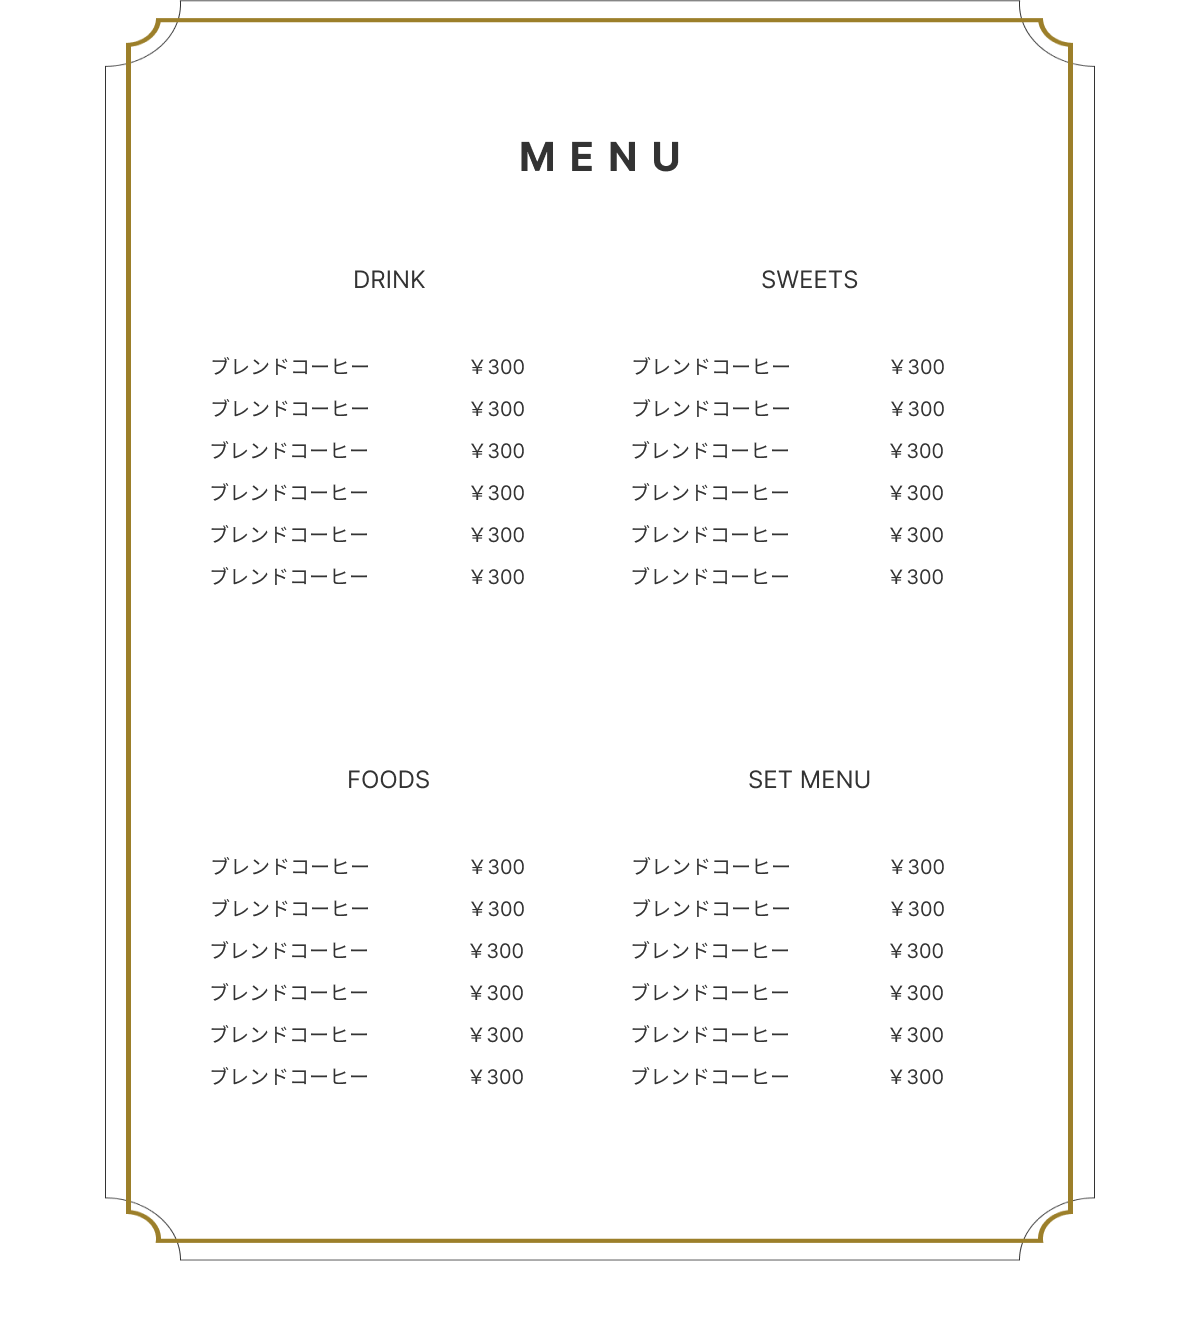
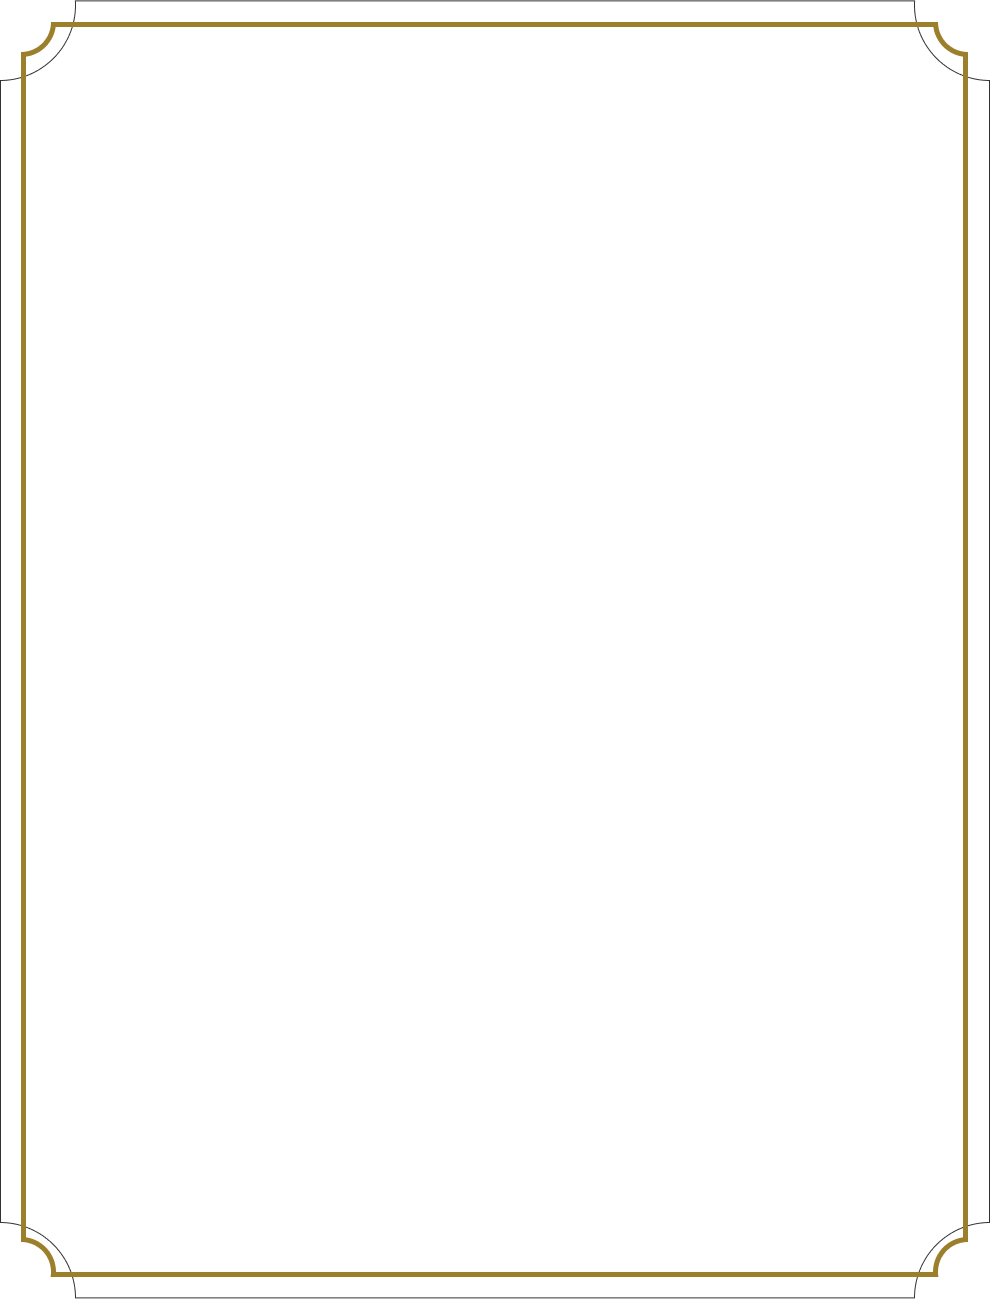
・Menuの全体的な修正 　→コンテンツ全体画像から、画像は枠のみ・テキスト部分はコーディング ・見出し下部の余白の統一 ・FVの「ご予約の・・・」の部分、シャドー追加

diff --git a/index.html b/index.html
@@ -110,133 +110,122 @@
           <h1 class="ttl__1">MENU</h1>
           <img src="./img/img-1.png" alt="ttl_border">
         </div>
-        <div class="menu-content-img">
-          <img src="./img/menu-content.png" alt="menu-content-img">
-        </div>
-        <!--
-
-          枠のみ画像の差し込みとする予定だったが、以下の理由から全体画像の差し込みにする。
-          ・メニュー数が少ない場合に枠内の縦の余白が多くなる。
-          ・コーディング量が多すぎる
-
-        <div class="menu-content-top">
-          <img src="./img/menu-border-img.png" alt="#">
+        <div class="menu-content">
+          <div class="menu-content-img">
+            <img src="./img/menu-content.png" alt="menu-content-img">
+          </div>
           <h2 class="ttl__2">MENU</h2>
-        </div>
-        <div class="menu-content-bottom">
           <div class="menu-categorys">
             <div class="category drink">
-                <h2 class="ttl__3">DRINK</h2>
-                <div>
-                  <p class="item">ブレンドコーヒー</p>
-                  <p class="price">￥300</p>
-                </div>
-                <div>
-                  <p class="item">ブレンドコーヒー</p>
-                  <p class="price">￥300</p>
-                </div>
-                <div>
-                  <p class="item">ブレンドコーヒー</p>
-                  <p class="price">￥300</p>
-                </div>
-                <div>
-                  <p class="item">ブレンドコーヒー</p>
-                  <p class="price">￥300</p>
-                </div>
-                <div>
-                  <p class="item">ブレンドコーヒー</p>
-                  <p class="price">￥300</p>
-                </div>
-                <div>
-                  <p class="item">ブレンドコーヒー</p>
-                  <p class="price">￥300</p>
-                </div>
+              <h2 class="ttl__3">DRINK</h2>
+              <div>
+                <p class="item">ブレンドコーヒー</p>
+                <p class="price">￥300</p>
+              </div>
+              <div>
+                <p class="item">ブレンドコーヒー</p>
+                <p class="price">￥300</p>
+              </div>
+              <div>
+                <p class="item">ブレンドコーヒー</p>
+                <p class="price">￥300</p>
+              </div>
+              <div>
+                <p class="item">ブレンドコーヒー</p>
+                <p class="price">￥300</p>
+              </div>
+              <div>
+                <p class="item">ブレンドコーヒー</p>
+                <p class="price">￥300</p>
+              </div>
+              <div>
+                <p class="item">ブレンドコーヒー</p>
+                <p class="price">￥300</p>
+              </div>
             </div>
             <div class="category sweets">
-                <h2 class="ttl__3">SWEETS</h2>
-                <div>
-                  <p class="item">ブレンドコーヒー</p>
-                  <p class="price">￥300</p>
-                </div>
-                <div>
-                  <p class="item">ブレンドコーヒー</p>
-                  <p class="price">￥300</p>
-                </div>
-                <div>
-                  <p class="item">ブレンドコーヒー</p>
-                  <p class="price">￥300</p>
-                </div>
-                <div>
-                  <p class="item">ブレンドコーヒー</p>
-                  <p class="price">￥300</p>
-                </div>
-                <div>
-                  <p class="item">ブレンドコーヒー</p>
-                  <p class="price">￥300</p>
-                </div>
-                <div>
-                  <p class="item">ブレンドコーヒー</p>
-                  <p class="price">￥300</p>
-                </div>
+              <h2 class="ttl__3">SWEETS</h2>
+              <div>
+                <p class="item">ブレンドコーヒー</p>
+                <p class="price">￥300</p>
+              </div>
+              <div>
+                <p class="item">ブレンドコーヒー</p>
+                <p class="price">￥300</p>
+              </div>
+              <div>
+                <p class="item">ブレンドコーヒー</p>
+                <p class="price">￥300</p>
+              </div>
+              <div>
+                <p class="item">ブレンドコーヒー</p>
+                <p class="price">￥300</p>
+              </div>
+              <div>
+                <p class="item">ブレンドコーヒー</p>
+                <p class="price">￥300</p>
+              </div>
+              <div>
+                <p class="item">ブレンドコーヒー</p>
+                <p class="price">￥300</p>
+              </div>
             </div>
             <div class="category foods">
-                <h2 class="ttl__3">FOODS</h2>
-                <div>
-                  <p class="item">ブレンドコーヒー</p>
-                  <p class="price">￥300</p>
-                </div>
-                <div>
-                  <p class="item">ブレンドコーヒー</p>
-                  <p class="price">￥300</p>
-                </div>
-                <div>
-                  <p class="item">ブレンドコーヒー</p>
-                  <p class="price">￥300</p>
-                </div>
-                <div>
-                  <p class="item">ブレンドコーヒー</p>
-                  <p class="price">￥300</p>
-                </div>
-                <div>
-                  <p class="item">ブレンドコーヒー</p>
-                  <p class="price">￥300</p>
-                </div>
-                <div>
-                  <p class="item">ブレンドコーヒー</p>
-                  <p class="price">￥300</p>
-                </div>
+              <h2 class="ttl__3">FOODS</h2>
+              <div>
+                <p class="item">ブレンドコーヒー</p>
+                <p class="price">￥300</p>
+              </div>
+              <div>
+                <p class="item">ブレンドコーヒー</p>
+                <p class="price">￥300</p>
+              </div>
+              <div>
+                <p class="item">ブレンドコーヒー</p>
+                <p class="price">￥300</p>
+              </div>
+              <div>
+                <p class="item">ブレンドコーヒー</p>
+                <p class="price">￥300</p>
+              </div>
+              <div>
+                <p class="item">ブレンドコーヒー</p>
+                <p class="price">￥300</p>
+              </div>
+              <div>
+                <p class="item">ブレンドコーヒー</p>
+                <p class="price">￥300</p>
+              </div>
             </div>
             <div class="category set-menu">
-                <h2 class="ttl__3">SET MENU</h2>
-                <div>
-                  <p class="item">ブレンドコーヒー</p>
-                  <p class="price">￥300</p>
-                </div>
-                <div>
-                  <p class="item">ブレンドコーヒー</p>
-                  <p class="price">￥300</p>
-                </div>
-                <div>
-                  <p class="item">ブレンドコーヒー</p>
-                  <p class="price">￥300</p>
-                </div>
-                <div>
-                  <p class="item">ブレンドコーヒー</p>
-                  <p class="price">￥300</p>
-                </div>
-                <div>
-                  <p class="item">ブレンドコーヒー</p>
-                  <p class="price">￥300</p>
-                </div>
-                <div>
-                  <p class="item">ブレンドコーヒー</p>
-                  <p class="price">￥300</p>
-                </div>
+              <h2 class="ttl__3">SET MENU</h2>
+              <div>
+                <p class="item">ブレンドコーヒー</p>
+                <p class="price">￥300</p>
+              </div>
+              <div>
+                <p class="item">ブレンドコーヒー</p>
+                <p class="price">￥300</p>
+              </div>
+              <div>
+                <p class="item">ブレンドコーヒー</p>
+                <p class="price">￥300</p>
+              </div>
+              <div>
+                <p class="item">ブレンドコーヒー</p>
+                <p class="price">￥300</p>
+              </div>
+              <div>
+                <p class="item">ブレンドコーヒー</p>
+                <p class="price">￥300</p>
+              </div>
+              <div>
+                <p class="item">ブレンドコーヒー</p>
+                <p class="price">￥300</p>
+              </div>
             </div>
           </div>
-          <img src="./img/menu-border-img.png" alt="#">
         </div>
-        -->
       </div>
     </section>
     <section class="recommend section" id="recommend">
@@ -246,7 +235,7 @@
           <h1 class="ttl__1">RECOMMEND</h1>
           <img src="./img/img-1.png" alt="ttl_border">
         </div>
-        <div class="recommend-item">
+        <div class="recommend-item recommend-item-1">
           <img src="./img/menu-img-1.png" alt="menu-img-1">
           <div class="recommend-item-detail">
             <div class="recommend-item-explanation">

diff --git a/css/common.css b/css/common.css
@@ -122,6 +122,7 @@ li {
   padding: 10px 0;
   margin-bottom: 30px;
   margin-right: 30px;
+  box-shadow: 5px 5px 3px 1px #fff;
 }
 
 .section {
@@ -178,7 +179,7 @@ li {
 /************************************/
 .news-contents {
   width: 70%;
-  padding-top: 50px;
+  padding-top: 85px;
   margin: 0 auto;
 }
 
@@ -195,48 +196,39 @@ li {
 /************************************/
 /*               menu               */
 /************************************/
-/*
-.menu-content-top {
-  width: 100%;
-  height: 200px;
+.menu-content {
+  width: 80%;
   position: relative;
-  overflow: hidden;
-  padding-top: 50px;
+  margin: 0 auto;
 }
 
-.menu-content-top img {
+.menu-content-img {
   width: 100%;
-  z-index: 20;
+  padding-top: 100px;
+  margin: 0 auto;
 }
 
-.menu-content-top .ttl__2 {
+.menu-content-img img {
+  width: 100%;
+}
+
+.ttl__2 {
   width: 100%;
   position: absolute;
-  top: 90%;
+  top: 25%;
   left: 50%;
   transform: translate(-50%, -50%);
-}
-
-.menu-content-bottom {
-  width: 100%;
-  position: relative;
-  overflow: hidden;
-
+  padding-bottom: 30px;
 }
 
 .menu-categorys {
-  width: 100%;
-  height: 900px;
+  width: 80%;
   display: flex;
   flex-wrap: wrap;
-  position: relative;
-}
-
-.menu-content-bottom img {
-  width: 100%;
   position: absolute;
-  bottom: 0%;
-  z-index: 10;
+  top: 30%;
+  left: 50%;
+  transform: translate(-50%, 0%);
 }
 
 .category {
@@ -260,28 +252,18 @@ li {
 }
 
 .item {
-  width: 80%;
+  width: 75%;
 }
 
 .price {
-  width: 20%;
+  width: 25%;
   text-align: center;
 }
 
 .foods, .set-menu {
   padding-top: 40px;
 }
-*/
 
-.menu-content-img {
-  width: 70%;
-  padding-top: 50px;
-  margin: 0 auto;
-}
-
-.menu-content-img img {
-  width: 100%;
-}
 
 /************************************/
 /*            recommend             */
@@ -293,6 +275,10 @@ li {
   background-color: #F0E8D8;
   align-items: center;
   justify-content: center;
+}
+
+.recommend-item-1 {
+  margin-top: 100px;
 }
 
 .recommend-item:nth-last-of-type(even) {
@@ -338,7 +324,7 @@ li {
   display: flex;
   align-items: center;
   justify-content: center;
-  margin: 50px 0;
+  margin-top: 100px;
 }
 
 .map-img {
@@ -387,7 +373,7 @@ li {
 /*             contact              */
 /************************************/
 .contact-content {
-  padding-top: 50px;
+  margin-top: 100px;
   text-align: center;
 }
 
